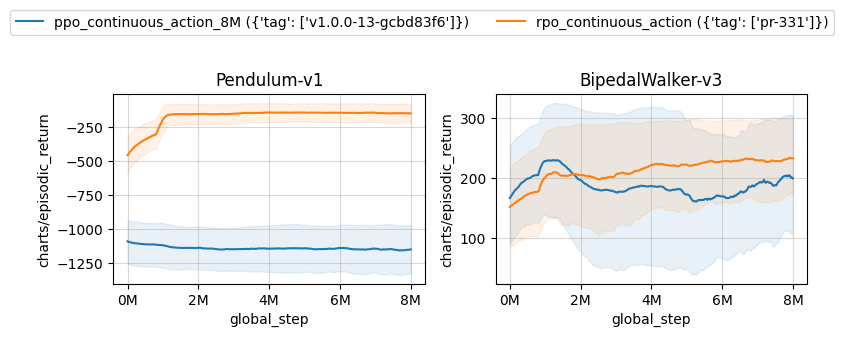
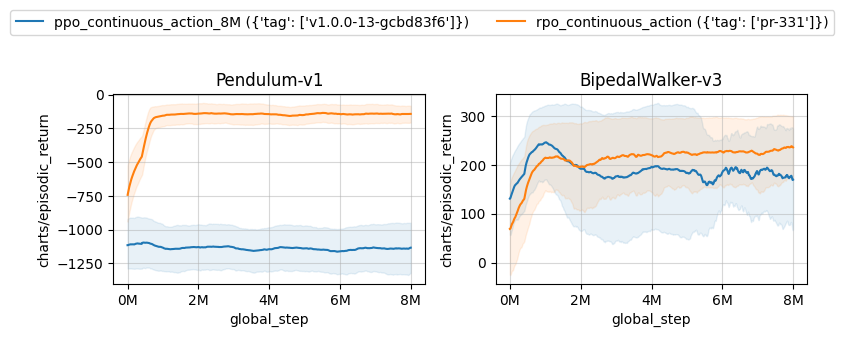
update docs for rpo

diff --git a/docs/rl-algorithms/rpo.md b/docs/rl-algorithms/rpo.md
@@ -221,8 +221,11 @@ To run benchmark experiments, see  [benchmark/rpo.sh](https://github.com/vwxyzjn
 
         |                  | ppo_continuous_action_8M ({'tag': ['v1.0.0-13-gcbd83f6']})   | rpo_continuous_action ({'tag': ['pr-331']})   |
         |:-----------------|:-------------------------------------------------------------|:----------------------------------------------|
-        | Pendulum-v1      | -1145.00 ± 125.97                                            | -145.82 ± 7.13                                |
-        | BipedalWalker-v3 | 172.74 ± 99.97                                               | 231.28 ± 22.39                                |
+        | Pendulum-v1      | -1141.98 ± 135.55                                            | -151.08 ± 3.73                                |
+        | BipedalWalker-v3 | 172.12 ± 96.05                                               | 227.11 ± 18.23                                |
 
         Learning curves:
         ![](../rpo/gym.png)
+
+        Tracked experiments:
+        <iframe loading="lazy" src="https://wandb.ai/openrlbenchmark/cleanrl/reports/RPO-on-Gym-Gymnasium---VmlldzozMjU3NzUy" style="border:none;height:1024px;width:100%">
